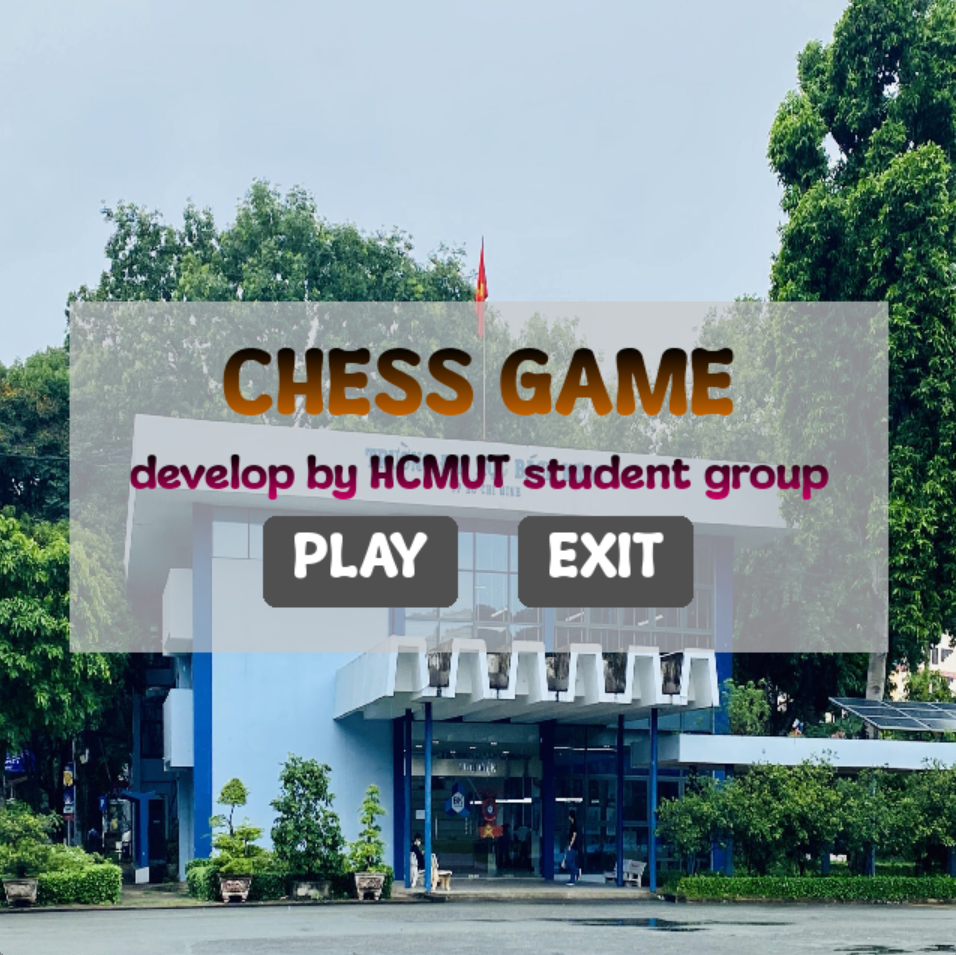
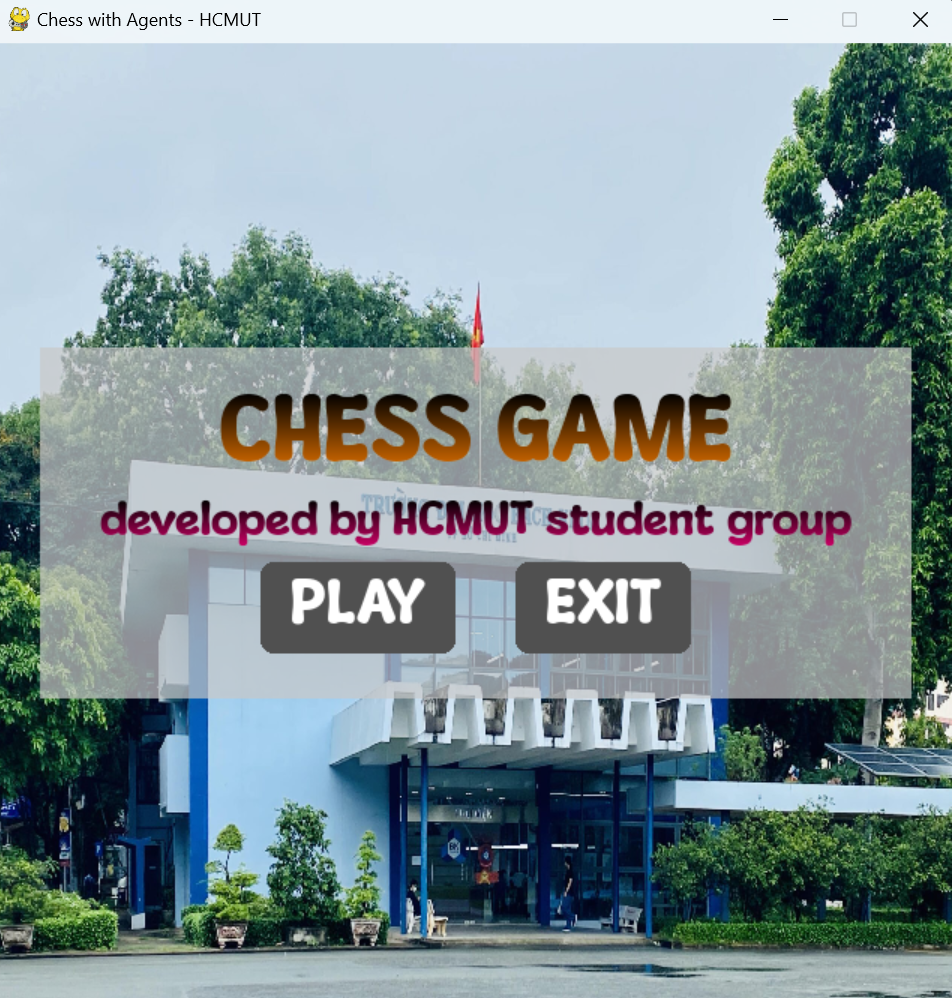
latest version

diff --git a/ui/main_menu.py b/ui/main_menu.py
@@ -33,7 +33,7 @@ def main_menu(screen, background_path):
     font_btn   = pygame.font.Font(custom_font_path, 40)
 
     title_surface = gradient_text("CHESS GAME", font_title, (0, 0, 0), (255, 128, 0))
-    msg_surface   = gradient_text("develop by HCMUT student group", font_msg, (0, 0, 0), (204, 0, 102))
+    msg_surface   = gradient_text("developed by HCMUT student group", font_msg, (0, 0, 0), (204, 0, 102))
 
     play_surface  = font_btn.render("PLAY", True, (255,255,255))
     exit_surface  = font_btn.render("EXIT", True, (255,255,255))
